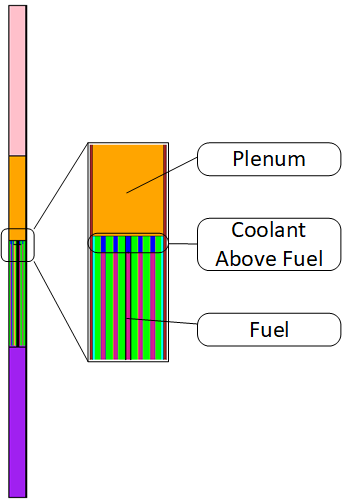
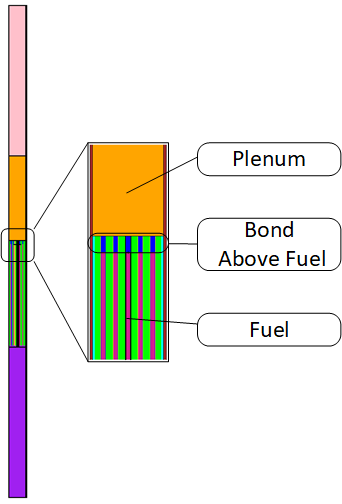
Updating Docs.

Changed region(s): [[0.614, 0.4167, 0.9649, 0.5357]]

diff --git a/docs/source/Examples.md b/docs/source/Examples.md
@@ -34,9 +34,9 @@ Table 1. Variables for Fuel Assembly YAML file.
 |Reflector Height | 61.3537 |
 |Reflector Smear | {LiquidNa: 0.116, 0.884} |
 
-The inputs from Table 1 create an assembly similar to the MK-II driver assemblies found in EBRII, as referenced in [1], where Figure 1 and Figure 2 show the MCNP assembly.
-In Figure 1 the regions are, from bottom to top; lower reflector, fuel, plenum and upper reflector.
-Along with this, a blown up section of the fuel shows how the variable `Bond Above Fuel` adds addition bond above the fuel.
+The inputs from Table 1 create an assembly similar to the MK-II driver assemblies found in EBRII, as referenced in [1], which can be seen in Figure 1.
+In Figure 1 the regions are, from bottom to top; lower reflector, fuel, plenum, and upper reflector.
+Along with this, a blown up section where the fuel meets the plenum region shows how the variable `Bond Above Fuel` adds addition bond above the fuel.
 Figure 2 shows the 91 pins in the assembly; there is fuel (purple), bond (blue), clad (yellow), wire wrap + coolant mixture (green), excess coolant (light blue), and the hex duct (maroon).
 
 Figure 1. EBR-II MKII assembly.
@@ -50,7 +50,7 @@ Figure 2. Plan view of EBR-II fuel section.
 ## Full Core
 
 Utilizing the EBR-II MKII assembly from above and creating reflector and blanket assemblies, a simplified full core model of EBR-II was created.
-This model only has three types of assemblies, driver, reflector, and blanket assemblies, but it provides a proof of concept for building full core models with varying assemblies.
+This model only has three types of assemblies (driver, reflector, and blanket assemblies), but it provides a proof of concept for building full core models with varying assemblies.
 Figure 3 shows the EBR-II full core model, where it should be noted that not all of the blanket assemblies were added to reduce the size of the figure and input file.
 The input files for the core and assemblies can be seen in `data/core` and `data/assembly`, respectively.
 

diff --git a/docs/source/Core.md b/docs/source/Core.md
@@ -1,7 +1,7 @@
 # Core
 
 A core is built by placing any number of assemblies into any position within the core.
-It is created using a YAML file, which can be found in `fridge/data/core` and requires four variables in addition to $n$ number of assembly positions.
+It is created using a YAML file, which can be found in `fridge/data/core` and requires four variables in addition to n number of assembly positions.
 Table 1 shows the requirements for a core file.
 
 Table 1. Variables for Core YAML file.
@@ -22,6 +22,7 @@ Table 1. Variables for Core YAML file.
 `Coolant Material` is a string used to create the coolant for the reactor vessel.
 **Note:** This will override any coolant material assigned to an assembly.
 `Assembly Position` is used to describe each assembly in the core, and what assembly goes there.
+**Note:** While the user can create as many assemblies as they wish in a core, MCNP only allows 9999 cells in a single model, which will limit the number of assemblies.
 
 The first entry is a five character string which broken into a triplet.
 The first two number denote the ring, the letter denotes the hextant, and the last two numbers denote the number of assemblies off the hextant axis.

diff --git a/docs/source/Test.md b/docs/source/Test.md
@@ -10,14 +10,14 @@ pip install numpy
 pip install PyYAML
 ```
 
-To run the test suite, open a terminal in the fridge directory and perform the following:
+To run the test suite, open a terminal in the directory above `fridge` (you should see `docs/`, `fridge/`, `paper/`) and perform the following:
 
 ```
 python -m pytest
 ```
 
 This should run all of the files in `fridge/test_suite`.
-There are currently 85 tests which will run; this typically takes between 5 and d30 seconds.
+There are currently 85 tests which will run; this typically takes between 5 and 30 seconds.
 This will generate four MCNP input files in `fridge/mcnp_input_files`.
 **Note:** There are four MCNP input files with the preface `Prefab_`, these are four MCNP input files that the test suite is checking against.
 **DO NOT** alter these files in any way, otherwise some of the tests will likely fail.

diff --git a/README.md b/README.md
@@ -33,7 +33,7 @@ python -m pytest
 ```
 
 Note: pytest, numpy, and PyYAML are all required to run FRIDGe, and the test suite.
-See the ![testing](https://ryanstwrt.github.io/FRIDGe/docs/source/Test.md) section of the user pages for more information.
+See the ![testing](docs/source/Test.md) section of the user pages for more information.
 
 # Running FRIDGe
 

diff --git a/docs/source/Assembly.md b/docs/source/Assembly.md
@@ -44,7 +44,7 @@ Figure 1 shows the layout of the blank assembly.
 
 Figure 1. FRIDGe created smear assembly.
 
-![Fuel Region](source/FRIDGEBlankassembly.png)
+![Fuel Region](Figures/FRIDGEBlankassembly.png)
 
 ## Fuel Assembly
 
